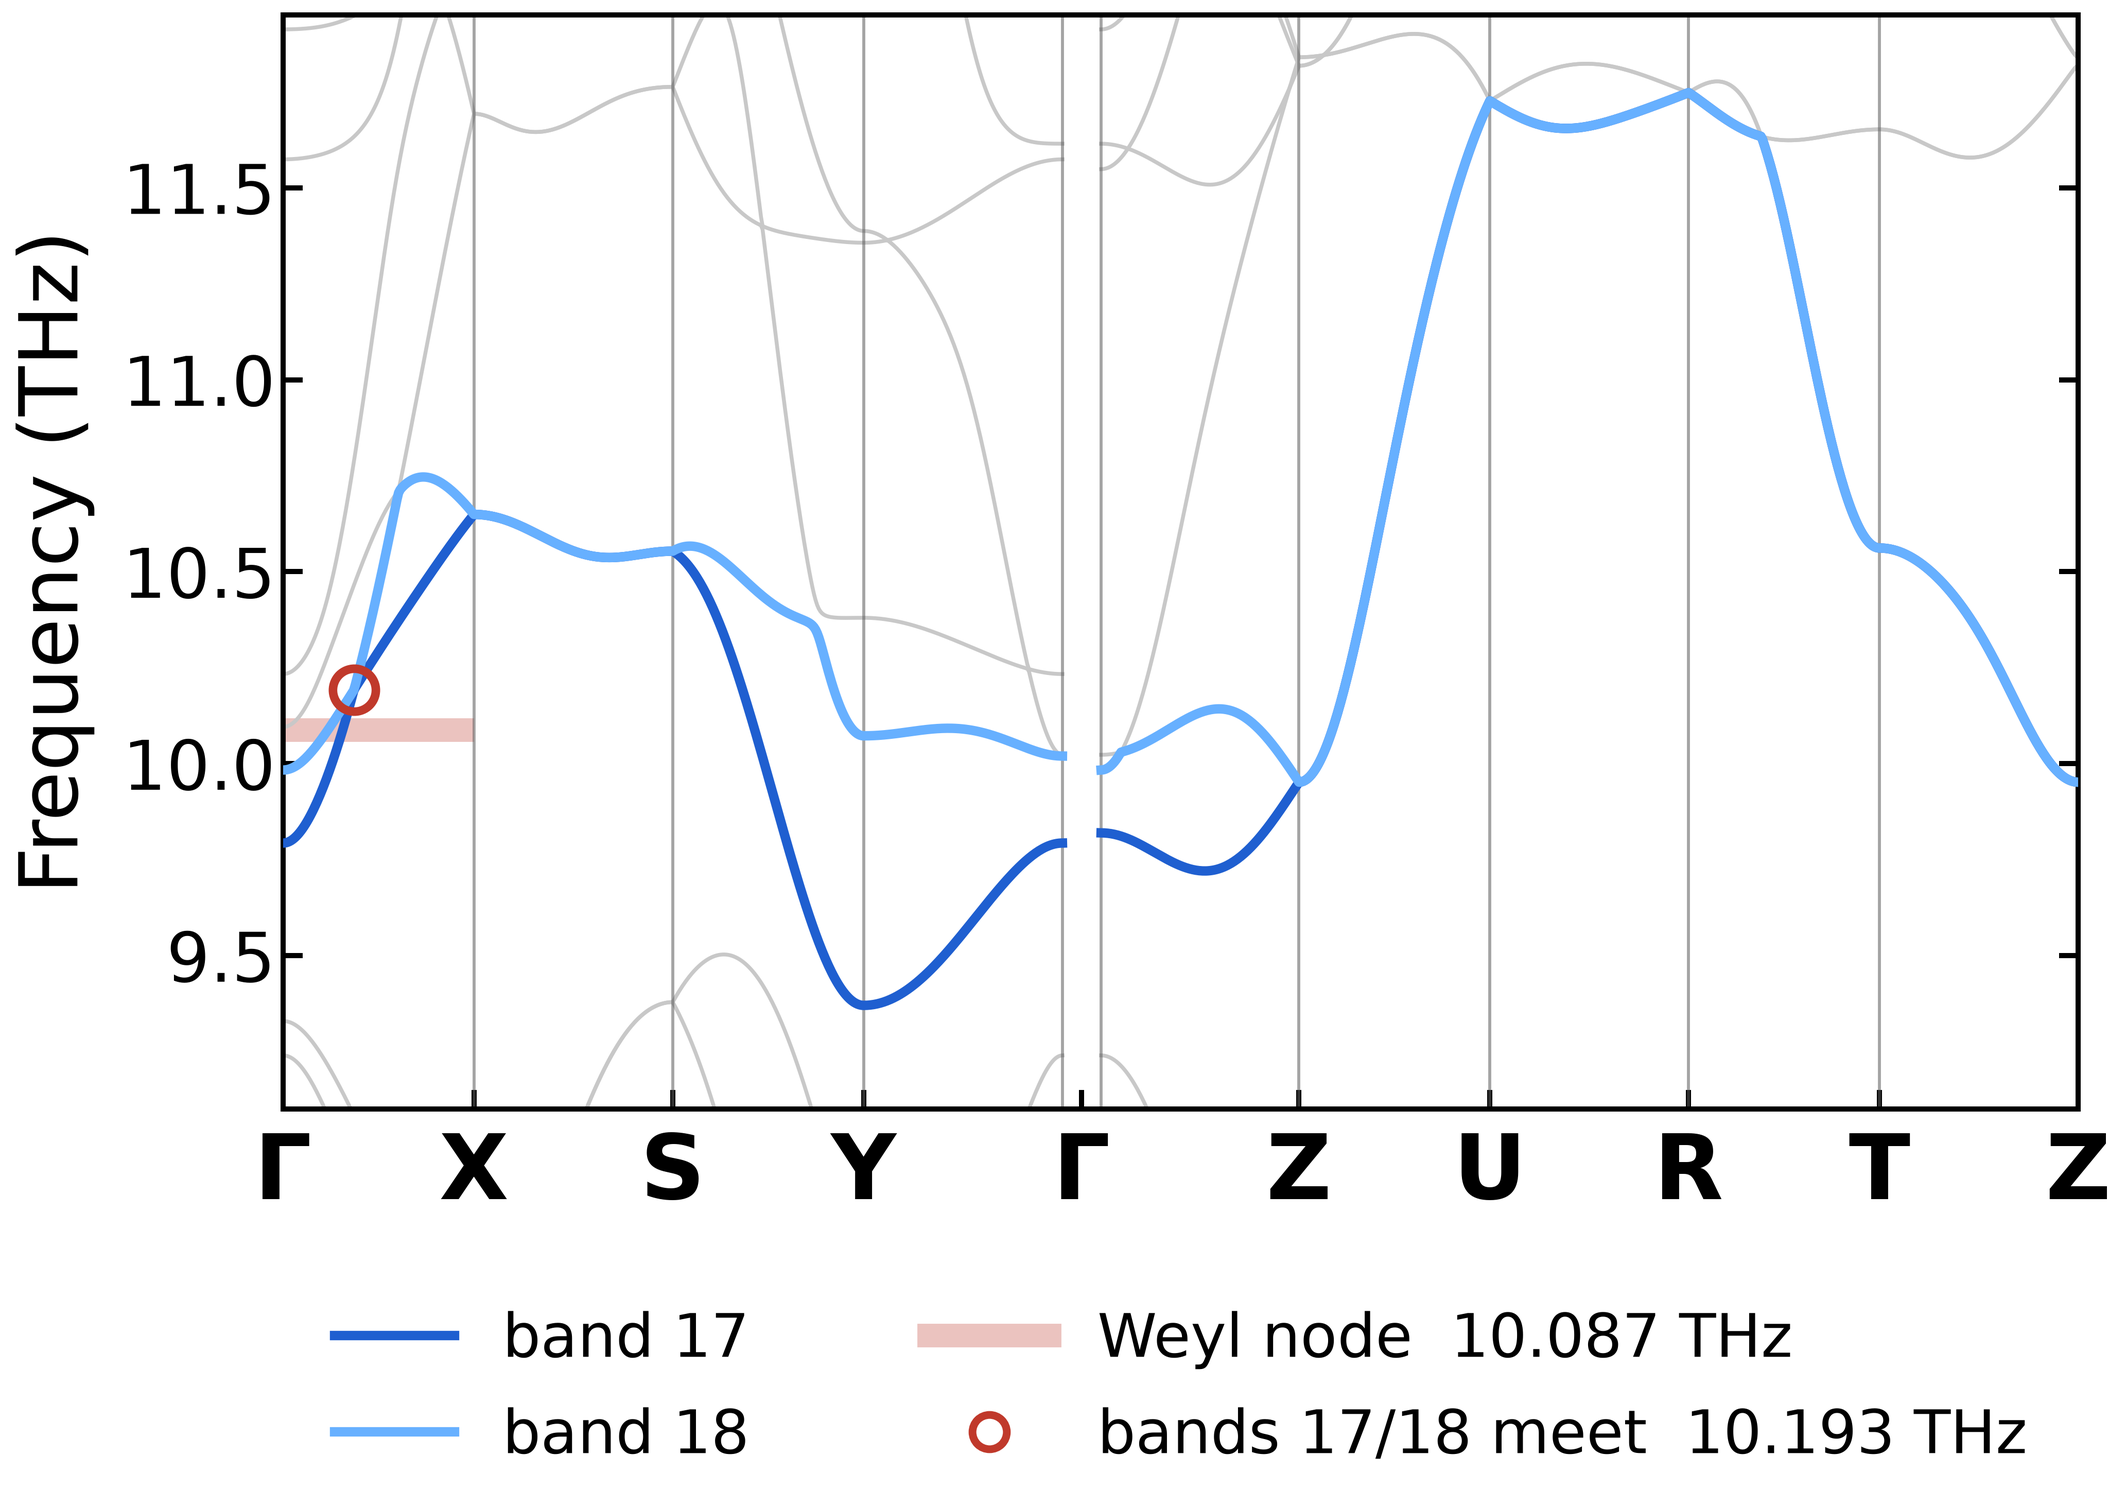
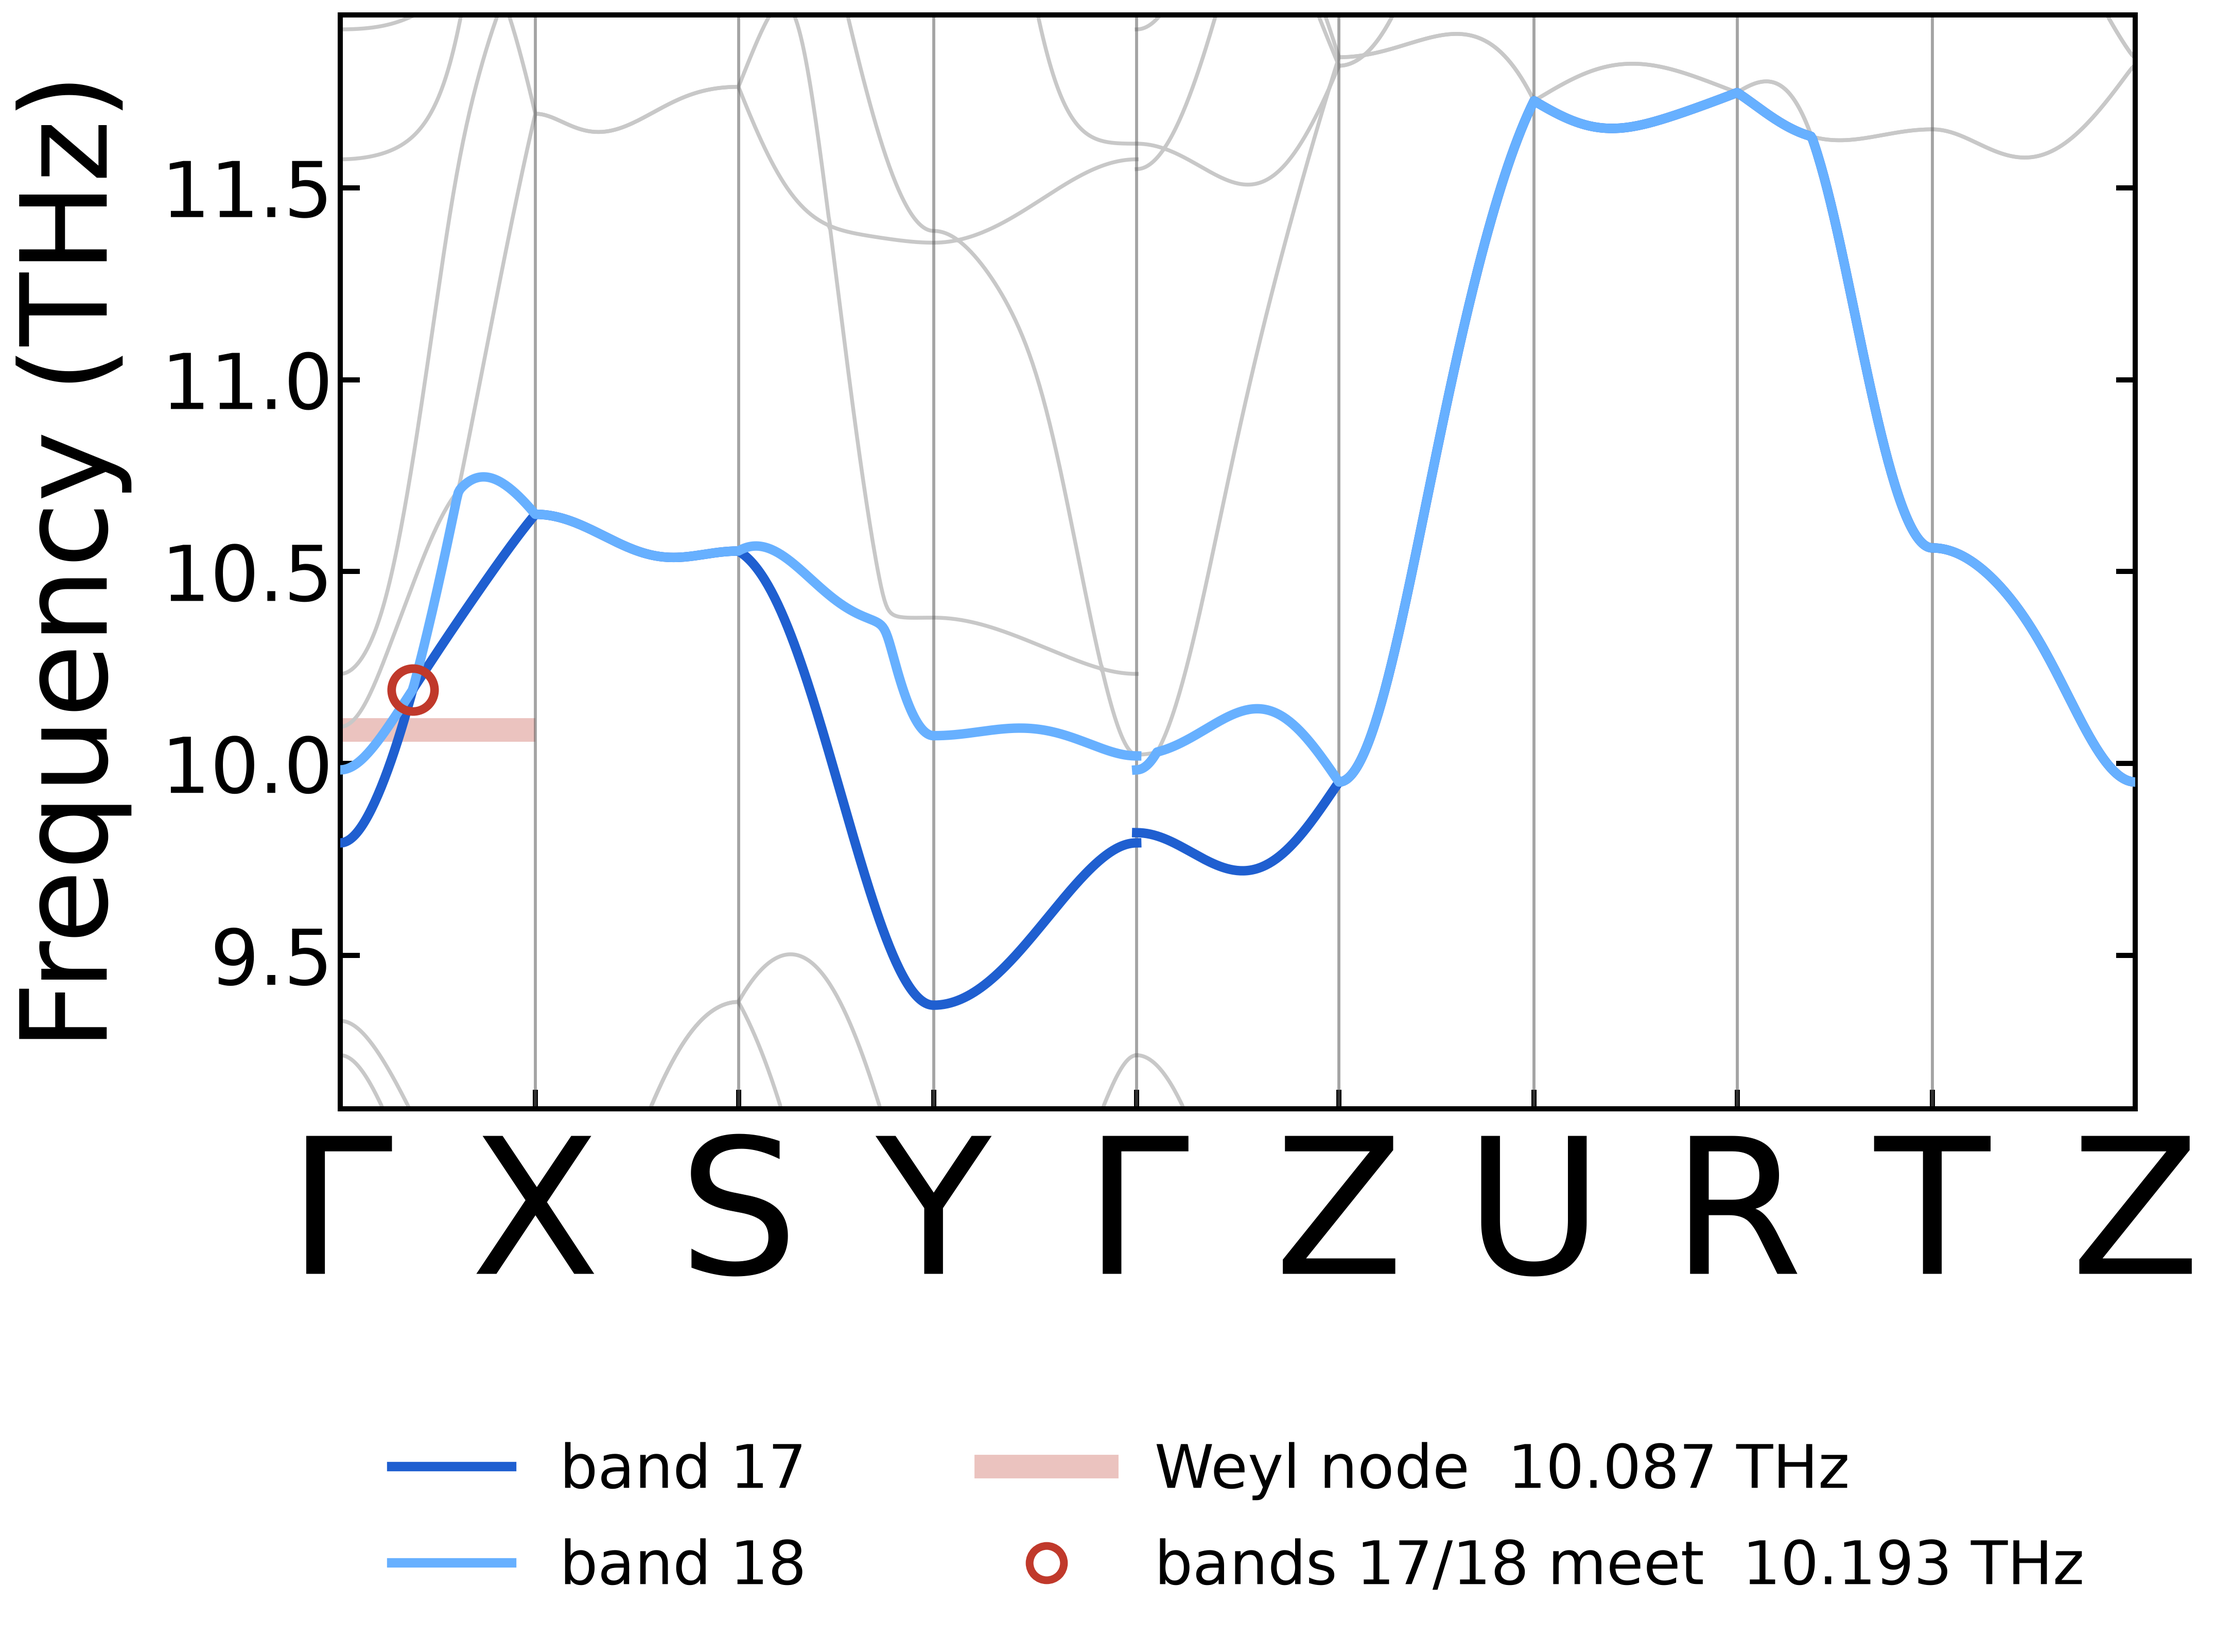
fig2: drop the artificial Gamma gap; scale up the path labels instead
Reverted the x-shift that opened a white gap at the interior Gamma. The
values are discontinuous there anyway, so a single NaN is enough and the axis
stays undistorted. Still exactly one break.

Path labels on fig2_path_ppt.png go from 42pt bold to 88pt regular -- each
letter now nearly fills its tick interval -- and the Frequency label from
38pt to 56pt. Legend moved down to clear them.

Claude-Session: https://claude.ai/code/session_016KadJUTSV3nBHHj1NDTMTh

diff --git a/scripts/figs/fig2_path_ppt.py b/scripts/figs/fig2_path_ppt.py
@@ -24,8 +24,8 @@ XC_FRAC, XC_E = 0.185742 / 0.5, 10.192507
 RED, LIGHT = '#c0392b', '#67b0ff'
 
 plt.rcParams.update({
-    'font.size': 28, 'axes.labelsize': 38, 'legend.fontsize': 28,
-    'ytick.labelsize': 32, 'xtick.labelsize': 36,
+    'font.size': 28, 'axes.labelsize': 56, 'legend.fontsize': 28,
+    'ytick.labelsize': 36, 'xtick.labelsize': 88,
     'axes.linewidth': 2.4, 'xtick.major.width': 2.4, 'ytick.major.width': 2.4,
     'xtick.major.size': 9, 'ytick.major.size': 9,
     'xtick.direction': 'in', 'ytick.direction': 'in', 'ytick.right': True,
@@ -36,13 +36,9 @@ plt.rcParams.update({
 d = np.loadtxt('figs/bulkek_parent_pristine.dat')
 E = d[:, 1].reshape(NB, -1); x = d[:len(d) // NB, 0]
 
-# 안쪽 Γ 에서 **한 번만** 끊는다. NaN 만 넣으면 단차처럼 보이므로, 그 뒤 x 를 통째로
-# 밀어 실제로 벌어진 흰 틈을 만든다 (데이터 값은 하나도 건드리지 않는다).
-GAP = 0.022 * (x[-1] - x[0])
-xs = x.copy(); xs[GAMMA_BREAK:] += GAP
-ticks = [xs[i * NK] for i in range(len(LAB) - 1)] + [xs[-1]]
-ticks[4] = x[GAMMA_BREAK] + GAP / 2            # Γ 눈금은 틈의 한가운데
-xp = np.insert(xs, GAMMA_BREAK, np.nan)
+# 안쪽 Γ 에서 한 번만 끊는다. 값 자체가 불연속이라 NaN 하나면 충분하다.
+ticks = [x[i * NK] for i in range(len(LAB) - 1)] + [x[-1]]
+xp = np.insert(x, GAMMA_BREAK, np.nan)
 Ep = np.insert(E, GAMMA_BREAK, np.nan, axis=1)
 
 fig, ax = plt.subplots(figsize=(15.0, 9.2))
@@ -53,18 +49,14 @@ ax.plot([ticks[0], ticks[1]], [WEYL_E, WEYL_E], color=RED, lw=11.0, alpha=0.30,
         solid_capstyle='butt', zorder=1)
 ax.plot(xp, Ep[16], color=BLUE, lw=4.4, label='band 17', zorder=3)
 ax.plot(xp, Ep[17], color=LIGHT, lw=4.4, label='band 18', zorder=3)
-for n, t in enumerate(ticks[1:-1], start=1):
-    if n == 4:                                  # 끊은 자리 — 틈 양쪽 경계에 긋는다
-        ax.axvline(x[GAMMA_BREAK], color=GREY, lw=1.4, alpha=0.55)
-        ax.axvline(x[GAMMA_BREAK] + GAP, color=GREY, lw=1.4, alpha=0.55)
-    else:
-        ax.axvline(t, color=GREY, lw=1.4, alpha=0.55)
+for t in ticks[1:-1]:
+    ax.axvline(t, color=GREY, lw=1.4, alpha=0.55)
 ax.plot(ticks[0] + XC_FRAC * (ticks[1] - ticks[0]), XC_E, 'o',
         ms=20, mfc='none', mec=RED, mew=4.0, zorder=4)
 
 ax.set_xticks(ticks)
-ax.set_xticklabels(LAB, fontsize=42, fontweight='bold')   # 고대칭 경로 볼드
-ax.set_xlim(xs[0], xs[-1]); ax.set_ylim(9.1, 11.95)
+ax.set_xticklabels(LAB, fontsize=88)          # 고대칭 경로 — 볼드 없이 크게
+ax.set_xlim(x[0], x[-1]); ax.set_ylim(9.1, 11.95)
 ax.set_ylabel('Frequency (THz)', labelpad=12)
 ax.tick_params(axis='x', pad=10)
 
@@ -73,7 +65,7 @@ h += [Line2D([], [], color=RED, lw=11.0, alpha=0.30),
       Line2D([], [], ls='none', marker='o', ms=16, mfc='none', mec=RED, mew=3.6)]
 l += ['Weyl node  %.3f THz' % WEYL_E,
       'bands 17/18 meet  %.3f THz' % XC_E]
-ax.legend(h, l, loc='upper center', bbox_to_anchor=(0.5, -0.135), ncol=2,
+ax.legend(h, l, loc='upper center', bbox_to_anchor=(0.5, -0.255), ncol=2,
           frameon=False, handlelength=2.0, columnspacing=3.0, labelspacing=0.6)
 
 fig.savefig('figs/fig2_path_ppt.png')

diff --git a/scripts/figs/fig2_node.py b/scripts/figs/fig2_node.py
@@ -30,13 +30,8 @@ d = np.loadtxt('figs/bulkek_parent_pristine.dat')
 E = d[:, 1].reshape(NB, -1); x = d[:len(d) // NB, 0]
 ticks = [x[i * NK] for i in range(len(LAB) - 1)] + [x[-1]]
 
-# 안쪽 Γ 에서 한 번만 끊는다. NaN 만으로는 단차처럼 보이므로 뒤쪽 x 를 밀어
-# 실제로 벌어진 흰 틈을 만든다 (데이터 값은 그대로).
-GAP = 0.022 * (x[-1] - x[0])
-xs = x.copy(); xs[GAMMA_BREAK:] += GAP
-ticks = [xs[i * NK] for i in range(len(LAB) - 1)] + [xs[-1]]
-ticks[4] = x[GAMMA_BREAK] + GAP / 2
-xp = np.insert(xs, GAMMA_BREAK, np.nan)
+# 안쪽 Γ 에서 한 번만 끊는다. 값 자체가 불연속이라 NaN 하나면 충분하다.
+xp = np.insert(x, GAMMA_BREAK, np.nan)
 Ep = np.insert(E, GAMMA_BREAK, np.nan, axis=1)
 
 c = np.loadtxt('figs/bulkek_nodecut.dat')
@@ -57,19 +52,15 @@ ax.plot([ticks[0], ticks[1]], [WEYL_E, WEYL_E], color=RED, lw=5.5, alpha=0.32,
         solid_capstyle='butt', zorder=1)
 ax.plot(xp, Ep[16], color=BLUE, lw=2.5, label='band 17', zorder=3)
 ax.plot(xp, Ep[17], color='#67b0ff', lw=2.5, label='band 18', zorder=3)
-for n, t in enumerate(ticks[1:-1], start=1):
-    if n == 4:
-        ax.axvline(x[GAMMA_BREAK], color=GREY, lw=0.8, alpha=0.5)
-        ax.axvline(x[GAMMA_BREAK] + GAP, color=GREY, lw=0.8, alpha=0.5)
-    else:
-        ax.axvline(t, color=GREY, lw=0.8, alpha=0.5)
+for t in ticks[1:-1]:
+    ax.axvline(t, color=GREY, lw=0.8, alpha=0.5)
 # 두 밴드가 만나는 점
 xcross = ticks[0] + XC_FRAC * (ticks[1] - ticks[0])
 ax.plot(xcross, XC_E, 'o', ms=10, mfc='none', mec=RED, mew=2.4, zorder=4)
 
 ax.set_xticks(ticks)
-ax.set_xticklabels(LAB, fontsize=15, fontweight='bold')   # 고대칭 경로 볼드
-ax.set_xlim(xs[0], xs[-1])
+ax.set_xticklabels(LAB, fontsize=17)          # 고대칭 경로
+ax.set_xlim(x[0], x[-1])
 ax.set_ylim(9.1, 11.95); ax.set_ylabel('Frequency (THz)')
 from matplotlib.lines import Line2D
 h, l = ax.get_legend_handles_labels()

diff --git a/figs/README.md b/figs/README.md
@@ -19,7 +19,7 @@ POSCAR 자체는 절대 치환하지 않는다 — FORCE_SETS 와 어긋난다.
 
 | 파일 | 내용 | 만드는 법 |
 |---|---|---|
-| `fig2_path_ppt.png` | fig 2 의 (a) 표준 경로 밴드만, 폰트 크게 + **고대칭점 볼드** | `fig2_path_ppt.py` |
+| `fig2_path_ppt.png` | fig 2 의 (a) 표준 경로 밴드만. 고대칭점 문자 88 pt (볼드 없음, 한 칸을 거의 채운다), y 레이블 56 pt | `fig2_path_ppt.py` |
 | `fig2_cut_ka.png` | 노드를 지나는 **$k_a$ 방향** 절단. 축은 Δk 가 아니라 절대 $k_a$ (노드 0.14649 를 지난다). 교점 레이블은 `χ = +1` 만 | `fig2_cut_ppt.py` |
 | `fig2_cut_kb.png` | 같은 것의 **$k_b$ 방향** 절단 (절대 $k_b$, 노드 0.07085) | 〃 |
 | `fig5a_weyl_cone.png` | fig 5 의 (a) 3D 콘만, 폰트 크게, 레이블 `χ = +1` 만 | `fig5_cone.py` (같이 나온다) |
@@ -58,11 +58,9 @@ LO-TO 비해석항은 Γ 로 **접근하는 방향**에 의존하므로 `Y→Γ`
 0.1 THz 넘게 튀는 밴드가 **13개**다. 이어 그리면 거의 수직인 가짜 선이 생긴다
 (특히 band 20 은 그림 세로 범위 한가운데를 가로지른다).
 
-**끊는 방법**: NaN 만 끼우면 선이 끊기긴 하지만 폭이 0 이라 *단차*처럼 보인다.
-그래서 그 뒤의 x 를 전체 폭의 2.2 % 만큼 통째로 밀어 **실제로 벌어진 흰 틈**을
-만들고, 그 자리에 NaN 을 넣는다. 데이터 값은 하나도 건드리지 않는다 —
-경로 길이 축이 원래 임의이므로 정당하다. Γ 눈금은 틈 한가운데, 세로선은 틈의
-양쪽 경계에 긋는다. 끊는 곳은 **안쪽 Γ 한 군데뿐**이다.
+**끊는 방법**: 그 인덱스에 NaN 하나를 끼운다. 값 자체가 불연속이라 그것으로 충분하다.
+끊는 곳은 **안쪽 Γ 한 군데뿐**이다. (틈을 인위적으로 벌리는 판본도 만들어 봤으나
+축이 왜곡되어 되돌렸다.)
 
 ## fig 2 의 Γ-X 구간 표시 두 가지 — 서로 다른 것이다
 
